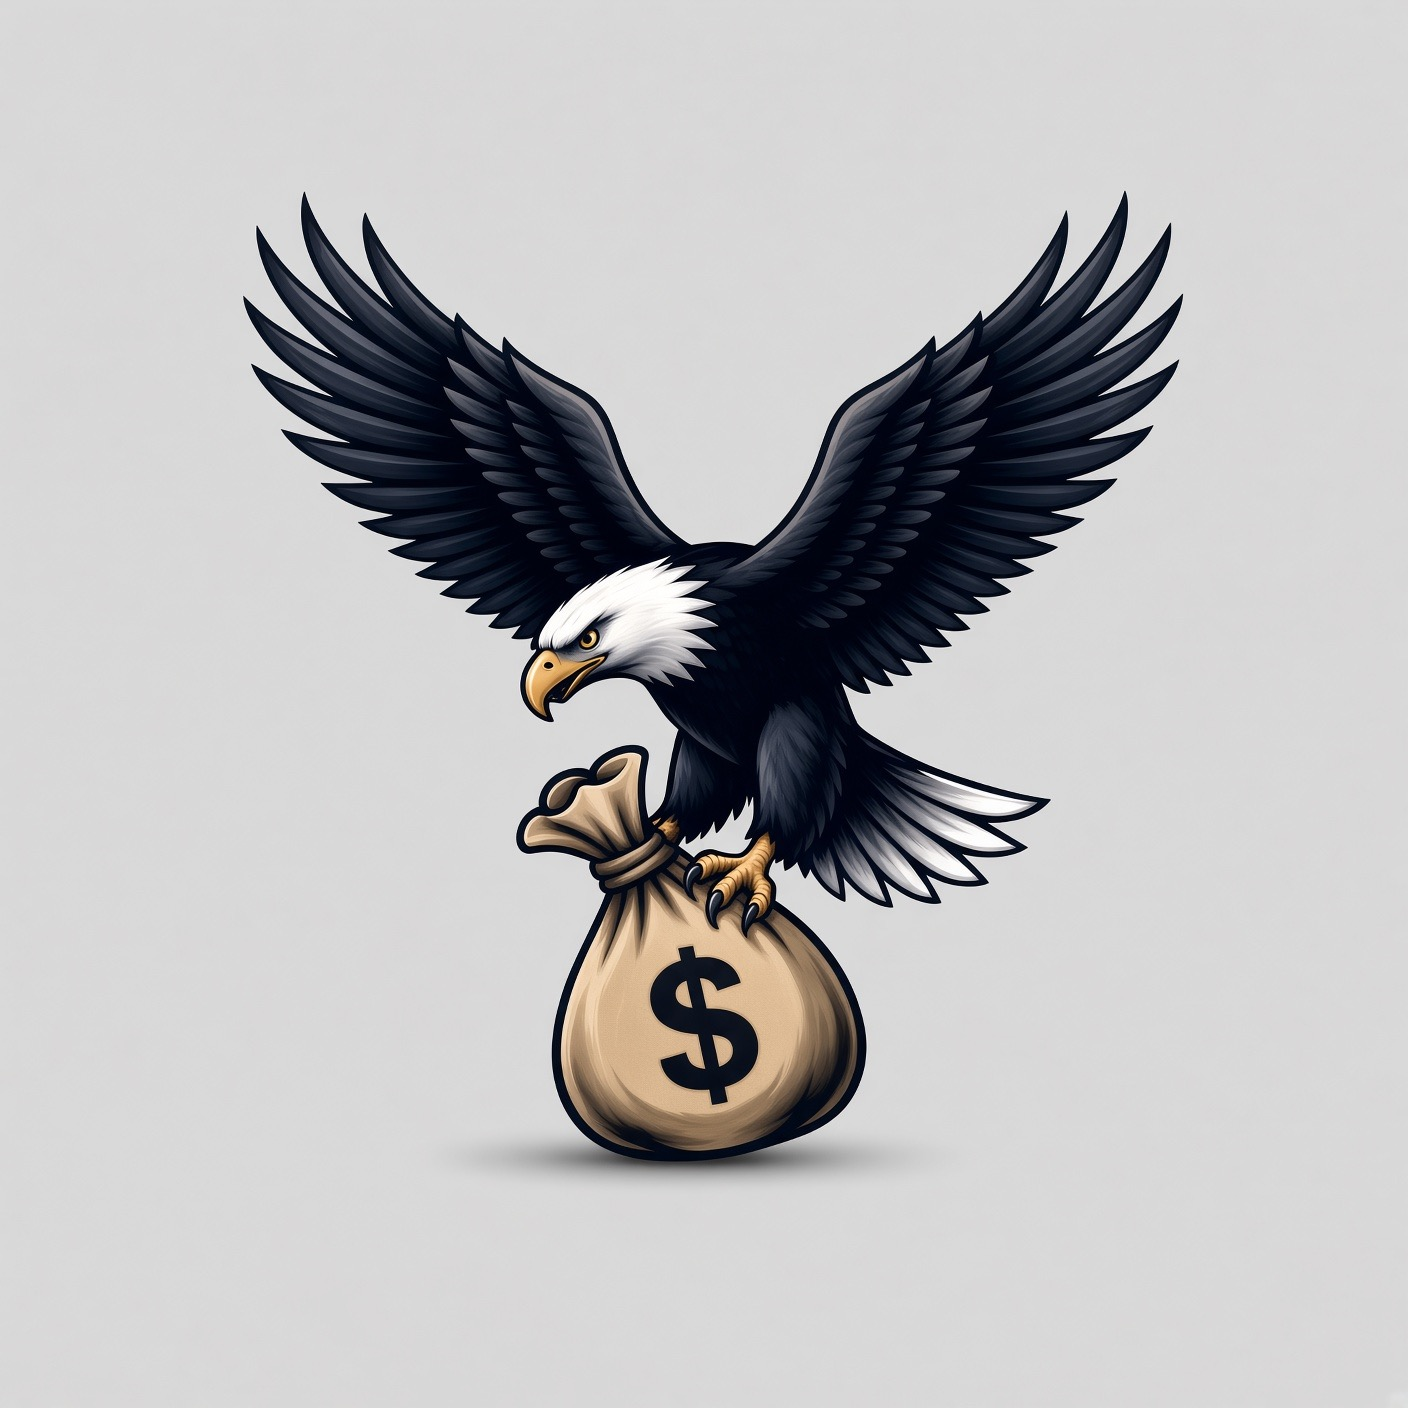
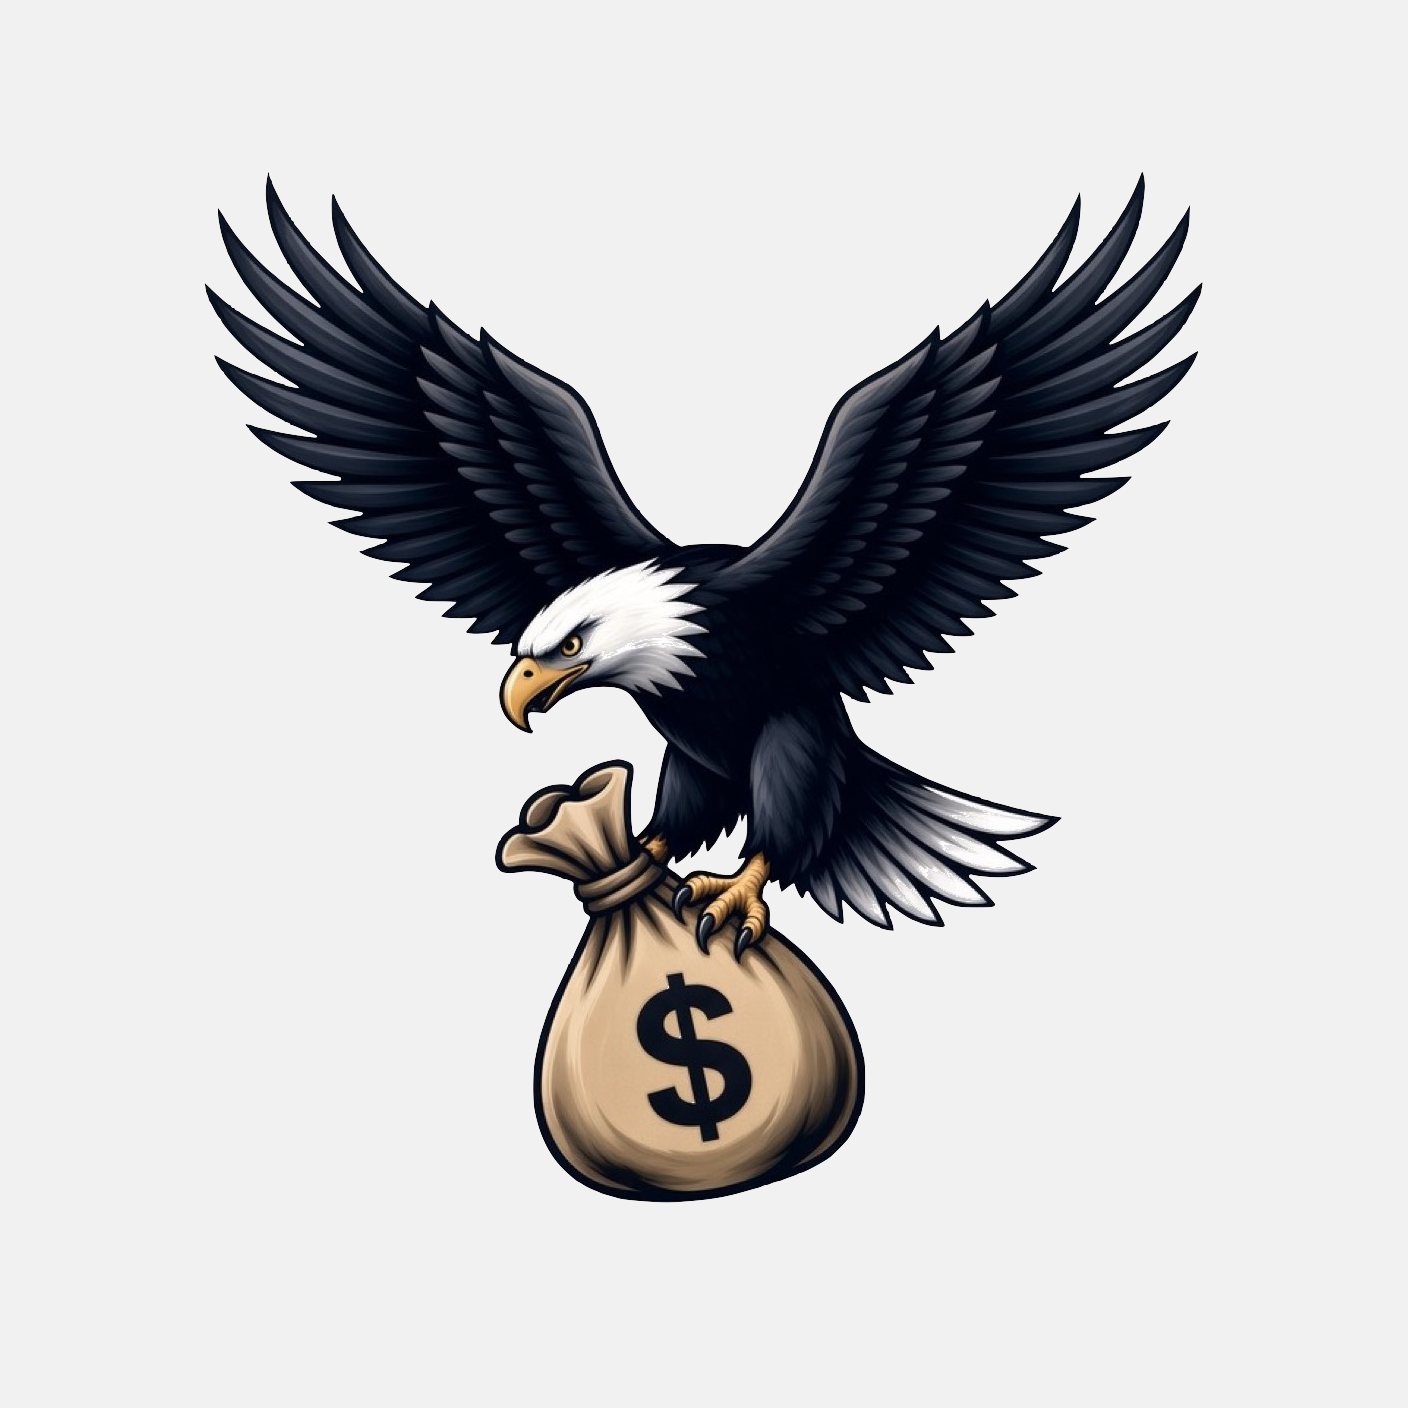
fix(brand): white full-bleed AppIcon plate (not pre-rounded mockup) [GROK]
Owner prefers the white plate look from the squircle mockup. Pre-rounded
assets with outer gray canvas do not ship as AppIcon — rebuilt as
full-bleed 1024/1408 RGB using transparent mark + white plate; iOS
applies the mask. Mockup kept as reference only.

diff --git a/docs/brand/assets/README.md b/docs/brand/assets/README.md
@@ -11,7 +11,7 @@
 - **Website:** transparent lockup/mark only (no cream fill) — the UI supplies the background.
 - **Light lockup:** solid black letters on transparent (good on light/cream UI).
 - **Dark lockup:** same art with **white** letters; eagle colors preserved.
-- **iOS AppIcon only:** opaque light-gray full-bleed plate (`eagle-app-icon-light-1024.png` / `source-owner-app-icon-1024x1024.jpg`). Hi-res master: `eagle-app-icon-light-1408.png` / `source-owner-app-icon-1408x1408.jpg`. iOS rejects transparent AppIcon.
+- **iOS AppIcon only:** opaque **white/off-white full-bleed plate** + eagle mark (`eagle-app-icon-light-1024.png`). Hi-res: `eagle-app-icon-light-1408.png`. iOS rejects transparent AppIcon and applies its own squircle — do **not** ship pre-rounded mockups with outer canvas (kept only as `source-owner-app-icon-mockup-rounded-1408x1408.jpg` for reference).
 - **Everywhere else that allows alpha** (web/PWA icons, favicon, apple-touch-icon, splash, in-app BrandLogo): transparent eagle mark — no plate fill.
 
 ## Files
